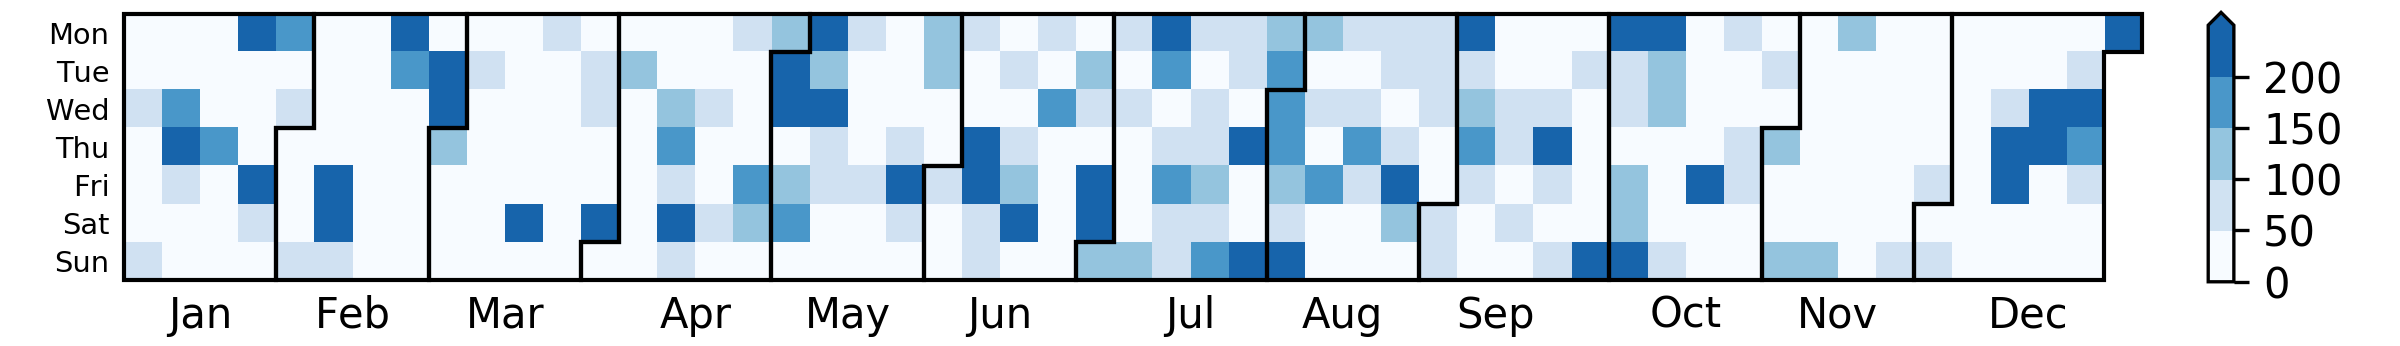
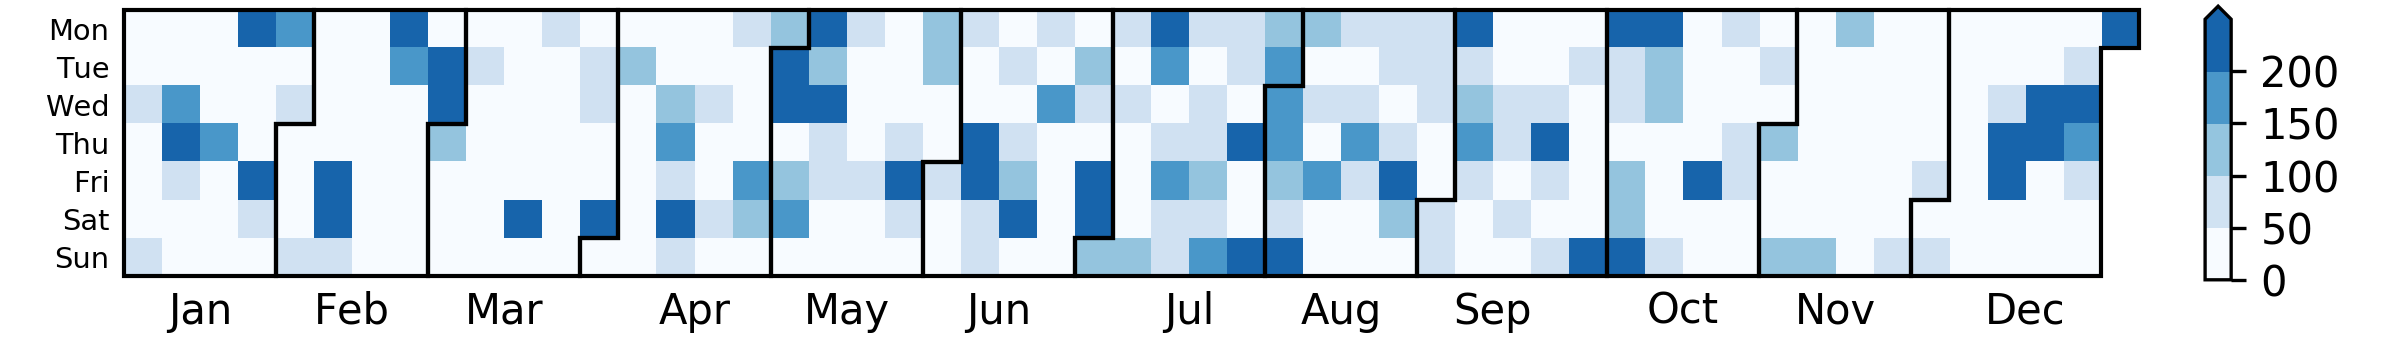
Add 2019 data for the analysis page. In the middle of working on the text of the analysis page.

diff --git a/analysis.html b/analysis.html
@@ -55,12 +55,12 @@
             <h2>Data Analysis and Research</h2>
             <hr>
             <p class="text">
-              In the Pittsburgh region, using the smell reports and the air quality data from local agency monitoring stations, we developed a statistical model to predict upcoming smell events and send push notifications to inform communities.
+              Using Smell PGH reports and air quality data from local agency monitoring stations, we developed a statistical model to predict upcoming smell events and send push notifications to inform communities.
               The dataset and the code are <a href="https://github.com/CMU-CREATE-Lab/smell-pittsburgh-prediction" target="_blank">publicly available on GitHub</a>.
               Our analysis indicated that smell events in Pittsburgh are related to the joint effect of wind directions and hydrogen sulfide readings.
               This research shows that engaging residents in documenting their experiences with pollution odors can help identify local air pollution patterns.
-              To learn more, check our research paper below.
-              A preprint of the paper can be downloaded <a href="https://arxiv.org/pdf/1810.11143.pdf" target="_blank">here</a>.
+              To learn more, a preprint of our research paper can be downloaded <a href="https://arxiv.org/pdf/1810.11143.pdf" target="_blank">here</a>.
+              The full citation of the research is shown below:
             </p>
             <p class="text">
               <i>Yen-Chia Hsu, Jennifer Cross, Paul Dille, Michael Tasota, Beatrice Dias, Randy Sargent, Ting-Hao (Kenneth) Huang, and Illah Nourbakhsh. 2019. Smell Pittsburgh: community-empowered mobile smell reporting system. In Proceedings of the 24th International Conference on Intelligent User Interfaces (IUI '19). ACM, New York, NY, USA, 65-79. DOI: <a href="https://doi.org/10.1145/3301275.3302293" target="_blank">https://doi.org/10.1145/3301275.3302293</a></i>
@@ -69,19 +69,19 @@
             <h2 class="add-top-margin">Distribution of Smell Reports and Users by Month</h2>
             <hr>
             <p class="text">
-              Smell Pittsburgh was launched on November 2016.
-              To understand user engagement over time, we aggregate the number of smell reports and unique users by month, as shown in the following figures.
+              Smell Pittsburgh was launched in September 2016.
+              To understand user engagement over time, we aggregate the number of smell reports and unique users by month (for 2017, 2018, and 2019).
               We estimate the number of unique users by combining the results from Google Analytics and our customized tracker in the system.
+              In general, user engagement in 2019 (17,974 reports, 6,406 users) was significantly higher than in 2018 (9,195 reports, 2,645 users) and in 2017 (8,112 reports, 2,237 users).
             </p>
+            <p class="text text-center analysis-graph-title">
+              Year 2019
+            </p>
+            <a class="image center" style="max-width: 650px;" href="img/all_smell_2019.png"><img src="img/all_smell_2019.png"></a>
             <p class="text text-center analysis-graph-title">
               Year 2018
             </p>
             <a class="image center" style="max-width: 650px;" href="img/all_smell_2018.png"><img src="img/all_smell_2018.png"></a>
-            <p class="text">
-              There are no apparent similarities among the statistics in 2017 and 2018.
-              In general, user engagement in 2018 (9,193 reports, 2,645 users) is increased than in 2017 (8,112 reports, 2,237 users).
-              The system attracted more users in 2018, and they also submitted more reports when compared with the data in 2017.
-            </p>
             <p class="text text-center analysis-graph-title">
               Year 2017
             </p>
@@ -91,32 +91,35 @@
             <hr>
             <p class="text">
               To investigate the concentration of smell reports across time, we compute the average number of smell reports per day, aggregated by hour of day and day of week.
-              The following figures show that our users usually submit reports in the morning and rarely at nighttime.
-              Also, weekdays have more smell reports than weekends.
+              The following figures show that most reports are submitted during morning hours, and rarely at nighttime.
+              Additionally, more smell reports are received during weekdays compared to weekends.
+              The distribution of reports per day were similar in 2017 and 2018.
+              However, reports in 2018 were more evenly distributed, while the 2017 reports were concentrated on Tuesday, Wednesday, and Thursday mornings.
             </p>
+            <p class="text text-center analysis-graph-title">
+              Average number of reports per day (2019)
+            </p>
+            <a class="image center" style="max-width: 650px;" href="img/smell_dh_2019.png"><img src="img/smell_dh_2019.png"></a>
             <p class="text text-center analysis-graph-title">
               Average number of reports per day (2018)
             </p>
             <a class="image center" style="max-width: 650px;" href="img/smell_dh_2018.png"><img src="img/smell_dh_2018.png"></a>
-            <p class="text">
-              The patterns in 2017 and 2018 are similar.
-              One key difference is that the reports in 2018 are more evenly distributed, while the reports in 2017 are concentrated on Tuesday, Wednesday, and Thursday morning.
-            </p>
             <p class="text text-center analysis-graph-title">
               Average number of reports per day (2017)
             </p>
             <a class="image center" style="max-width: 650px;" href="img/smell_dh_2017.png"><img src="img/smell_dh_2017.png"></a>
             <p class="text">
               Moreover, we compute the average number of smell reports per day, aggregated by hour of day and month.
-              When comparing with the previous graph, the x-axis is the same, and we replace the y-axis with months.
+              2018 smell reports were more frequent in the mornings in May and June, while the reports from 2017 were concentrated in July, August, and October.
             </p>
+            <p class="text text-center analysis-graph-title">
+              Average number of reports per day (2019)
+            </p>
+            <a class="image center" style="max-width: 650px;" href="img/smell_mh_2019.png"><img src="img/smell_mh_2019.png"></a>
             <p class="text text-center analysis-graph-title">
               Average number of reports per day (2018)
             </p>
             <a class="image center" style="max-width: 650px;" href="img/smell_mh_2018.png"><img src="img/smell_mh_2018.png"></a>
-            <p class="text">
-              One key difference is that smell reports were concentrated in May and June morning in 2018, while the reports in 2017 are concentrated in July, August, and October.
-            </p>
             <p class="text text-center analysis-graph-title">
               Average number of reports per day (2017)
             </p>
@@ -125,61 +128,85 @@
             <h2 class="add-top-margin">Distribution of Smell Reports Aggregated by Geographical Region</h2>
             <hr>
             <p class="text">
-              The following interactive map shows the distribution of smell reports by zipcodes for 2018.
-              The color legend indicates the mapping between color and the number of smell reports.
-              A darker color means more reports in an area.
-              Notice that this map indicates citizen engagement but does not represent the severity of pollution.
+              The following interactive maps show the distribution of smell reports by Pittsburgh area zipcodes for 2017, 2018, and 2019.
+              A darker color indicates more reports in an area.
+              Note that this map indicates citizen engagement with the Smell PGH app, but does not necessarily represent the severity of pollution.
+              In general, citizen engagement is increased over the three years, especially from 2018 to 2019.
             </p>
+            <p class="text text-center analysis-graph-title">
+              Number of reports by region (2019)
+            </p>
+            <iframe class="iframe-in-body" src="smell_map.html?year=2019"></iframe>
             <p class="text text-center analysis-graph-title">
               Number of reports by region (2018)
             </p>
             <iframe class="iframe-in-body" src="smell_map.html?year=2018"></iframe>
-            <p class="text">
-              The following map shows the distribution of smell reports by zipcodes for 2017.
-              One major difference is that the number of reports from zipcode 15218 in 2018 are increased significantly (almost a factor of two) when compared to the data in 2017.
-            </p>
             <p class="text text-center analysis-graph-title">
               Number of reports by region (2017)
             </p>
             <iframe class="iframe-in-body" src="smell_map.html?year=2017"></iframe>
             <!----------------------------------------------------------------------------------->
-            <h2 class="add-top-margin">What People Said in Smell Reports</h2>
+            <h2 class="add-top-margin">Content Analysis of Smell Reports</h2>
             <hr>
             <p class="text">
               To identify critical topics in citizen-contributed smell reports, we analyzed the frequency of words (unigram) and phrases (bigram) in the text fields.
-              We remove stop words and group similar words with different forms (lemmatization).
-              The following figures show that high-frequency words and phrases mostly described industrial pollution odors and symptoms of air pollution exposure, especially hydrogen sulfide that has rotten egg smell and can cause a headache, dizziness, eye irritation, sore throat, cough, nausea, and shortness of breath.
+              The following figures show that the majority of user comments described industrial pollution odors and symptoms related to air pollution exposure.
+              Odor descriptions and symptoms were frequently linked to hydrogen sulfide, which has a "rotten egg" smell and is known to cause symptoms of headaches, dizziness, eye irritation, sore throat, cough, nausea, and shortness of breath
+              (<a href="https://doi.org/10.1146/annurev.pa.32.040192.000545" target="_blank">Reiffenstein et al., 1992</a>; <a href="https://doi.org/10.1177/1091581810384882" target="_blank">Guidotti, 2010</a>).
             </p>
+            <p class="text text-center analysis-graph-title">
+              Content analysis (2019)
+            </p>
+            <a class="image center" style="max-width: 800px;" href="img/smell_content_2019.png"><img src="img/smell_content_2019.png"></a>
             <p class="text text-center analysis-graph-title">
               Content analysis (2018)
             </p>
             <a class="image center" style="max-width: 800px;" href="img/smell_content_2018.png"><img src="img/smell_content_2018.png"></a>
-            <p class="text">
-              The major trends in the content of the smell reports are mostly the same in 2017 and 2018.
-              One difference is that there are much more reports that describe rotten egg smell and sore throat symptom in 2018.
-            </p>
             <p class="text text-center analysis-graph-title">
               Content analysis (2017)
             </p>
             <a class="image center" style="max-width: 800px;" href="img/smell_content_2017.png"><img src="img/smell_content_2017.png"></a>
             <!----------------------------------------------------------------------------------->
-            <h2 class="add-top-margin">Relationships between Smell Reports and Pollutants</h2>
+            <h2 class="add-top-margin">Relationship between Smell Reports and Pollutants</h2>
             <hr>
             <p class="text">
-              The result discovered in the content analysis and the information obtained from informal community meetings suggested that hydrogen sulfide might be the primary source of odor pollution.
-              In the research paper, we have used statistical methods to select a subset of smell reports and analyze the relationship between these reports and hydrogen sulfide concentration.
-              In the bottom figure, we visualize a part of the <a href="https://link.springer.com/content/pdf/10.1007%2FBF00116251.pdf" target="_blank">decision tree</a> (i.e., the statistical model) and the pattern.
+              Comments from Smell PGH users and Pittsburgh community members suggested that hydrogen sulfide might be the primary source of pollution odors in the area.
+              We used statistical methods (described in the figure below) to analyze the relationship between a subset of smell reports and hydrogen sulfide concentrations, as measured by county monitors in the region.
+              Note that this identified relationship does not imply causation.
             </p>
             <p class="text text-center analysis-graph-title">
               Pollution Pattern Identified by Statistical Analysis (10/31/2016 to 9/27/2018)
             </p>
             <a class="image center" style="max-width: 810px;" href="img/smell_decision_tree.png"><img src="img/smell_decision_tree.png"></a>
             <p class="text">
-              The decision tree is analogous to how a medical doctor diagnoses patients.
-              The top level of the tree shows the most important predictor, which is the interaction between the wind directions (at Parkway monitoring station) and the hydrogen sulfide concentration (at the Liberty monitoring station).
-              The Allegany County Health Department operates these monitoring stations.
-              Based on this finding, we further investigate such relationships on a daily scale.
+              The decision tree (<a href="https://doi.org/10.1007/BF00116251" target="_blank">Quinlan, 1986</a>) depicted above is analogous to how a medical doctor may diagnose a patient.
+              The top level of the tree shows the most influential predictor, which is the interaction between wind direction at the Parkway monitoring station and hydrogen sulfide concentration at the Liberty monitoring station.
+              The Allegany County Health Department operates these monitoring stations. Based on this finding, we investigated this relationship further, by date.
             </p>
+            <p class="text">
+              We compare two metrics that are related to smell reports and data from county air quality monitors, respectively.
+              The first metric shows the sum of smell ratings for each day, excluding reports with ratings that are less than three.
+              A darker color indicates a larger volume of smell reports on that date.
+              The second metric shows the maximum concentration of hydrogen sulfide per day, weighted by the contributions of the wind directions (from the south and the east) at both the Parkway and Liberty monitoring stations.
+              The formula for each hourly measurement is:
+            </p>
+            <img src="http://latex.codecogs.com/svg.latex?C\cdot(3\sin\theta_1+3\sin\theta_2-\cos\theta_1-\cos\theta_2)">
+            <p class="text">
+              where <img src="http://latex.codecogs.com/svg.latex?C" style="vertical-align: -0.1em;"> represents the concentration of hydrogen sulfide in parts per billion (ppb) of the Liberty monitoring station,
+              <img src="http://latex.codecogs.com/svg.latex?\theta_1" style="vertical-align: -0.2em;"> is the wind direction at the Liberty monitoring station,
+              and <img src="http://latex.codecogs.com/svg.latex?\theta_2" style="vertical-align: -0.2em;"> is the wind direction at the Parkway monitoring station.
+              A darker color in the second metric indicates a larger concentration of hydrogen sulfide in the area.
+              The correlation between these two metrics (the sum of smell ratings and the maximum weighted concentration of hydrogen sulfide per day) is 0.59 in 2019, 0.64 in 2018, and 0.65 in 2017.
+              This indicates that hydrogen sulfide was a significant driver of smell reports in these three years.
+            </p>
+            <p class="text text-center analysis-graph-title">
+              Sum of Smell Ratings by Date (2019)
+            </p>
+            <a class="image center" style="max-width: 810px;" href="img/smell_heatmap_2019.png"><img src="img/smell_heatmap_2019.png"></a>
+            <p class="text text-center analysis-graph-title">
+              Maximum of Weighted Hydrogen Sulfide Concentration by Date (2019)
+            </p>
+            <a class="image center" style="max-width: 800px;" href="img/esdr_heatmap_2019.png"><img src="img/esdr_heatmap_2019.png"></a>
             <p class="text text-center analysis-graph-title">
               Sum of Smell Ratings by Date (2018)
             </p>
@@ -188,21 +215,6 @@
               Maximum of Weighted Hydrogen Sulfide Concentration by Date (2018)
             </p>
             <a class="image center" style="max-width: 800px;" href="img/esdr_heatmap_2018.png"><img src="img/esdr_heatmap_2018.png"></a>
-            <p class="text">
-              In the above two figures, we compare two metrics that are related to the smell reports and the air quality sensing data, respectively.
-              The first figure shows the sum of ratings in the smell reports for a day, excluding the reports with ratings that are less than three.
-              A darker color means that more people reported odor issues in the city.
-              The second figure shows the maximum concentration of hydrogen sulfide for a day, weighted by the contributions of the wind directions (from the south and the east) of both Parkway and Liberty monitoring stations.
-              The formula for each hourly measurement is:
-            </p>
-            <img src="http://latex.codecogs.com/svg.latex?C\cdot(3\sin\theta_1+3\sin\theta_2-\cos\theta_1-\cos\theta_2)">
-            <p class="text">
-              where <img src="http://latex.codecogs.com/svg.latex?C" style="vertical-align: -0.1em;"> is the concentration of hydrogen sulfide in parts per billion (ppb) of the Liberty monitoring station,
-              <img src="http://latex.codecogs.com/svg.latex?\theta_1" style="vertical-align: -0.2em;"> is the wind direction of the Liberty monitoring station,
-              and <img src="http://latex.codecogs.com/svg.latex?\theta_2" style="vertical-align: -0.2em;"> is the wind direction of the Parkway monitoring station.
-              A darker color in the second figure means that the impact of hydrogen sulfide is likely to be higher in the city.
-              The correlation between these two metrics is 0.64 in 2018 and 0.65 in 2017.
-            </p>
             <p class="text text-center analysis-graph-title">
               Sum of Smell Ratings by Date (2017)
             </p>

diff --git a/smell_map.html b/smell_map.html
@@ -76,7 +76,7 @@
     function loadData() {
       var data = {};
       var query_vars = getQueryParas();
-      var available_years = ["2017", "2018"];
+      var available_years = ["2017", "2018", "2019"];
       var year = available_years[0];
       if ("year" in query_vars) {
         var desired_year = query_vars["year"];
@@ -91,6 +91,9 @@
       } else if (year == 2018) {
         //path = "http://api.smellpittsburgh.org/api/v2/smell_reports?city_ids=1&client_ids=1,3&group_by=zipcode&aggregate=true&start_time=1514782800&end_time=1546318800";
         path = "lib/geo-heatmap/zipcode_metadata_2018.json"
+      } else if (year == 2019) {
+        //path = "http://api.smellpittsburgh.org/api/v2/smell_reports?city_ids=1&client_ids=1,3&group_by=zipcode&aggregate=true&start_time=1546318800&end_time=1577854800";
+        path = "lib/geo-heatmap/zipcode_metadata_2019.json"
       }
       // Start loading data simultaneously
       $.when(
@@ -156,7 +159,7 @@
       geo_heatmap = new edaplotjs.GeoHeatmap("#map-container", settings);
       color_legned = new edaplotjs.ColorScaleLegend("#color-legend-container", {
         color_scale: color_scale,
-        top_text: "1000",
+        top_text: ">1000",
         bottom_text: "0"
       });
     }
